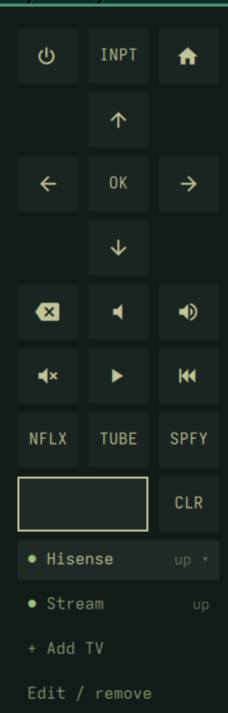
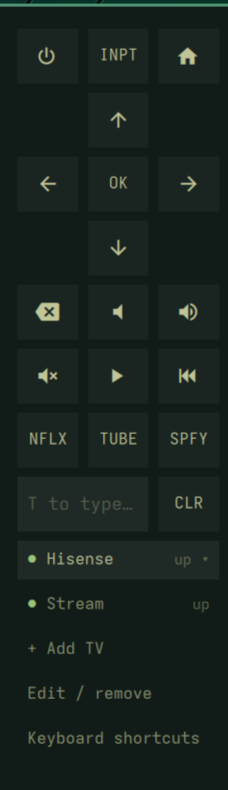
docs: bring the README up to the current GUI
Install still opened with a block of shell.json to hand-edit, which is no longer
how any of this is meant to be set up: adding, renaming, removing and pointing
the shortcut buttons at apps all happen in the pad now. The file form is kept,
below, for people who would rather configure in a file.

Screenshots were taken before the picker existed. Retaken, plus one of edit mode
since the outlined shortcut buttons are hard to describe in prose.

Claude-Session: https://claude.ai/code/session_01PKLiNP1B9eRw7nRPf3JDby

diff --git a/README.md b/README.md
@@ -19,7 +19,20 @@ with a real keyboard instead of pecking at an on-screen grid.
 omarchy plugin add https://github.com/swey-l1/omarchy-android-tv-remote --enable
 ```
 
-Then set your TV's address (Settings → Network → Status on the TV):
+`--enable` is what puts the widget into the bar; without it the plugin installs
+and nothing appears.
+
+Everything else is done from the pad. Open it, click the picker along its foot,
+and use **+ Add TV**: it takes a name and the TV's address (Settings → Network →
+Status on the TV), and a bare IP gets `:5555` appended for you. Up to three sets
+can be configured and the pad drives one at a time, though one TV is the normal
+case, and with a single set the picker stays one status line.
+
+**Edit / remove** in the same list renames or deletes a set, and turns the three
+shortcut buttons into app choosers, so no part of setup needs a package name
+looked up by hand.
+
+Nothing stops you writing it out instead, if you prefer configuration in a file:
 
 ```jsonc
 // ~/.config/omarchy/shell.json  → bar.layout.<section>
@@ -29,12 +42,6 @@ Then set your TV's address (Settings → Network → Status on the TV):
   "tv2Label": "Bedroom",     "tv2Address": "192.168.1.51:5555"
 }
 ```
-
-Up to three sets can be configured; the pad drives one at a time and the picker
-at its foot switches between them. You do not have to write that by hand:
-open the picker and use **+ Add TV**, which writes the set into `shell.json` for
-you. One TV is the normal case; configure `tv1` alone and the picker stays a
-single status line.
 
 The first connection prompts **"Allow USB debugging?"** on the TV. Tick
 "Always allow from this computer". If that prompt is dismissed the set is stuck
@@ -100,20 +107,23 @@ switch to it. **+ Add TV** at the foot of that list takes a name and an address
 and saves them; a bare IP gets `:5555` appended. The row disappears once all
 three slots are used.
 
-**Edit / remove** below it flips the list into edit mode: a click then opens that
-set for rename or deletion rather than switching to it. While edit mode is on, the three
-shortcut buttons outline to show they are configurable, and clicking one sets
-what it launches rather than launching it:
-the pad reads the launchable apps off the TV and lists them to pick from, so you
-never have to look a package name up by hand. Deleting the set you are
+**Edit / remove** below it flips the list into edit mode, where a click opens a
+set for rename or deletion rather than switching to it. Deleting the set you are
 currently driving moves you to the first one left.
 
-Which TV you are on is remembered across restarts. Reachability for the other sets is only refreshed while that list
-is open, so three configured TVs do not mean three times the adb traffic on
-every poll.
+Edit mode also outlines the three shortcut buttons, and clicking one then sets
+what it launches rather than launching it: the pad reads the launchable apps off
+the TV and lists them to choose from.
 
-**Typing**: click the field, type, press Enter, and the string is sent and
-submitted. **Up/Down** walks the last 10 things you typed.
+![edit mode](docs/edit-mode.png)
+
+Which TV you are on is remembered across restarts. The other sets only have
+their reachability refreshed while the list is open, so three configured TVs do
+not mean three times the adb traffic on every poll.
+
+**Typing**: press `T` (or click the field), type, press Enter, and the string is
+sent and submitted. `Esc` hands the keyboard back to the controls. **Up/Down**
+walks the last 10 things you typed.
 
 **The icon turns your theme's urgent colour when the TV is unreachable**, and
 the tooltip distinguishes "TV unreachable", "adb not installed" and a TV that
@@ -182,6 +192,7 @@ to set.
 TV_ADB_ADDR=192.168.1.50:5555 ./tv-remote key KEYCODE_DPAD_DOWN
 TV_ADB_ADDR=192.168.1.50:5555 ./tv-remote text "jazz piano" enter
 TV_ADB_ADDR=192.168.1.50:5555 ./tv-remote clear 30
+TV_ADB_ADDR=192.168.1.50:5555 ./tv-remote apps       # launchable packages
 TV_ADB_ADDR=192.168.1.50:5555 ./tv-remote status     # up | down | unauth | noadb
 TV_ADB_ADDR=192.168.1.50:5555 ./tv-remote reauth     # re-show the debugging prompt
 ```
